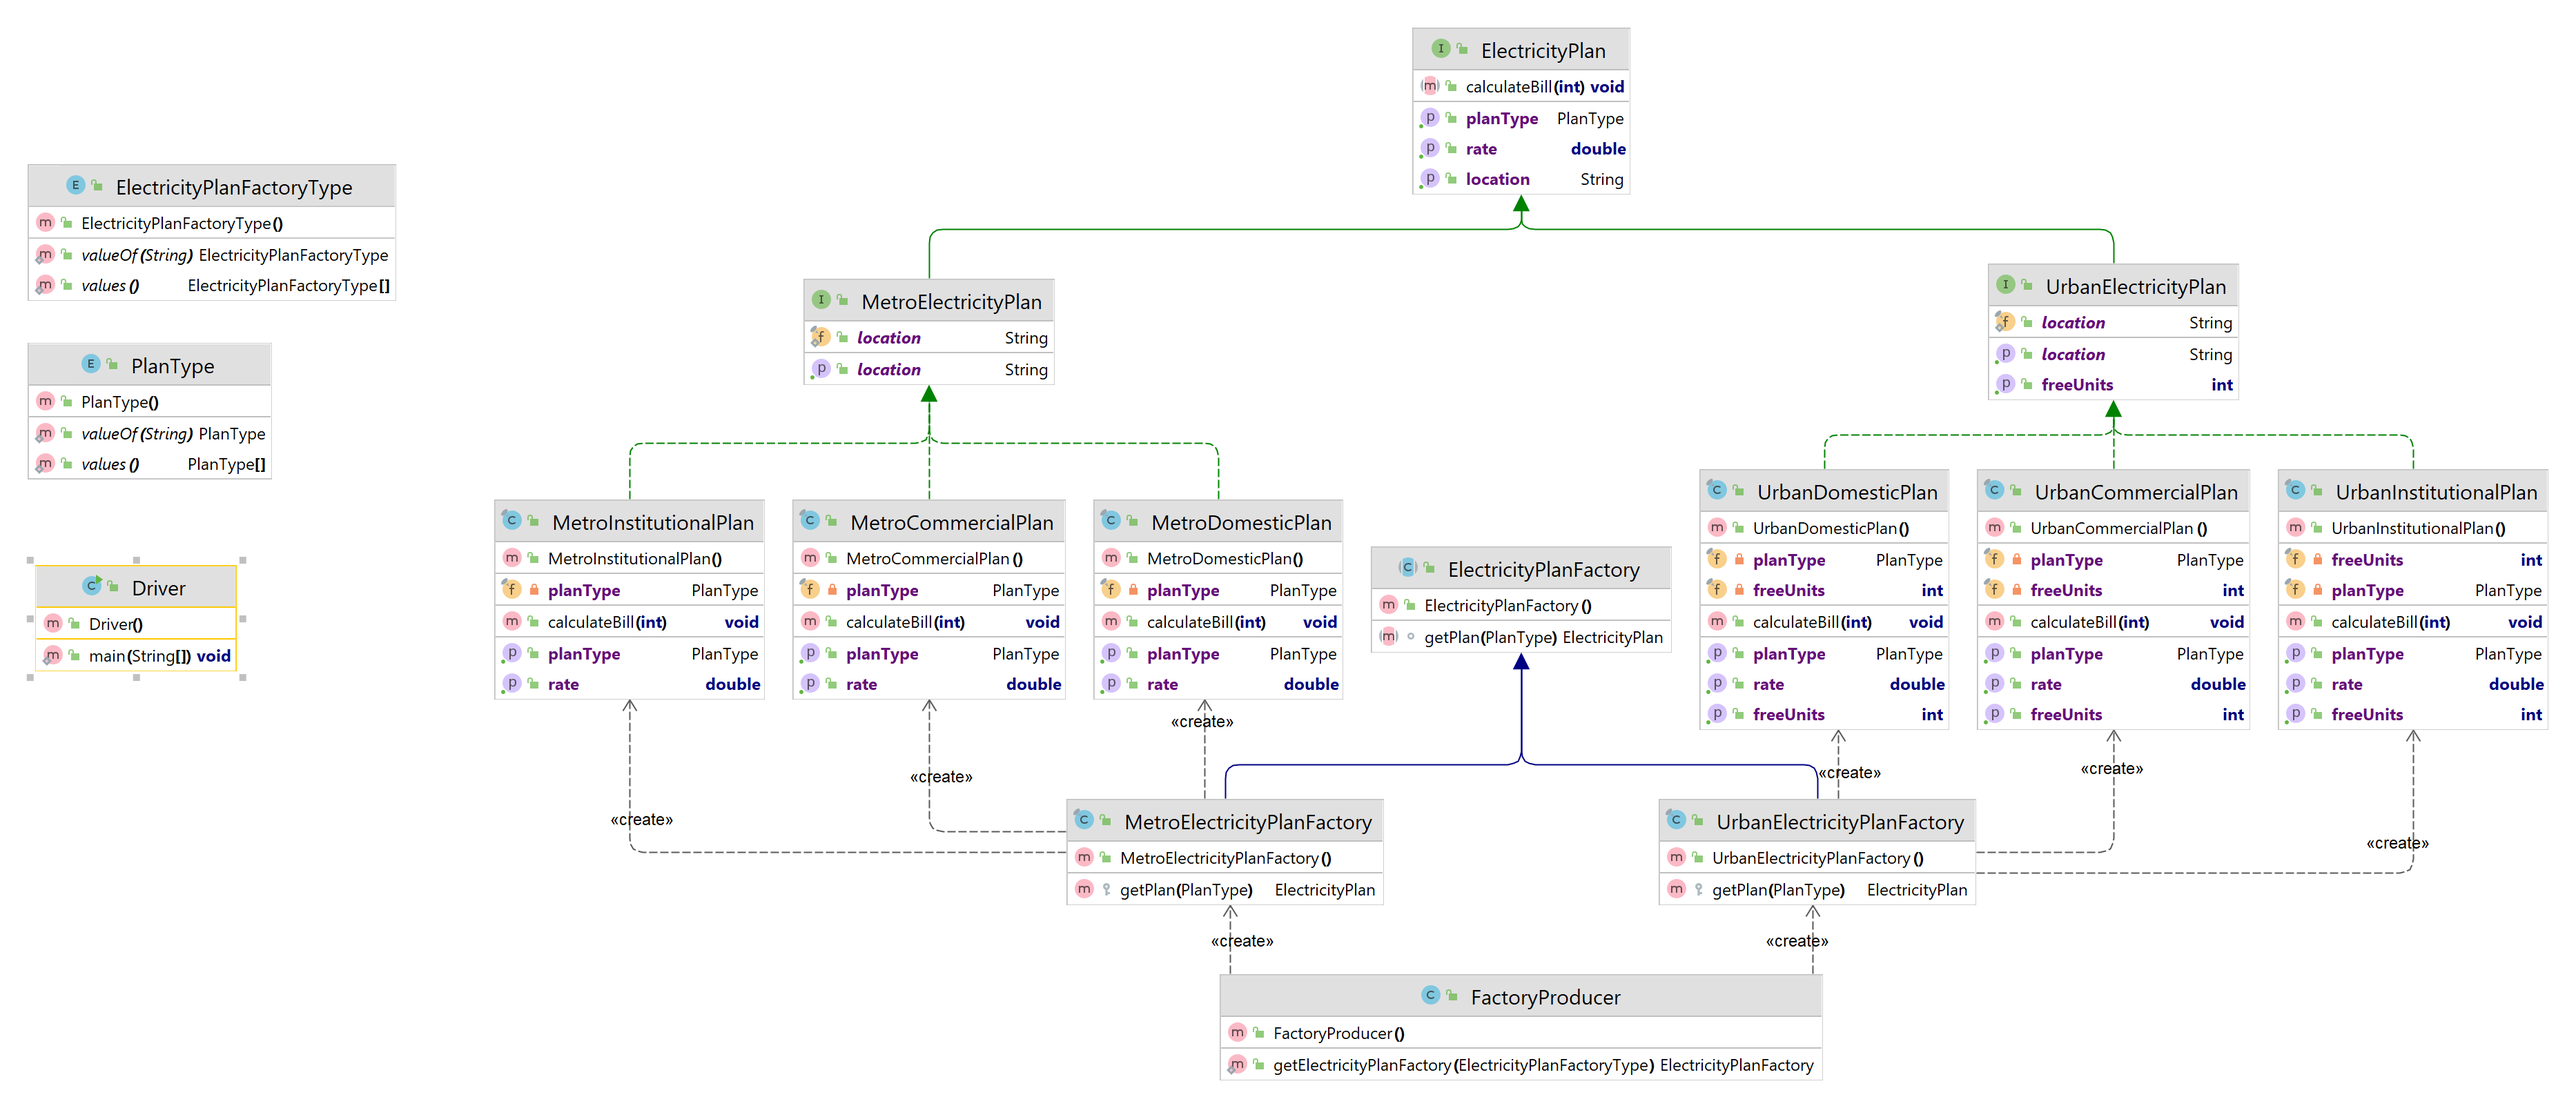
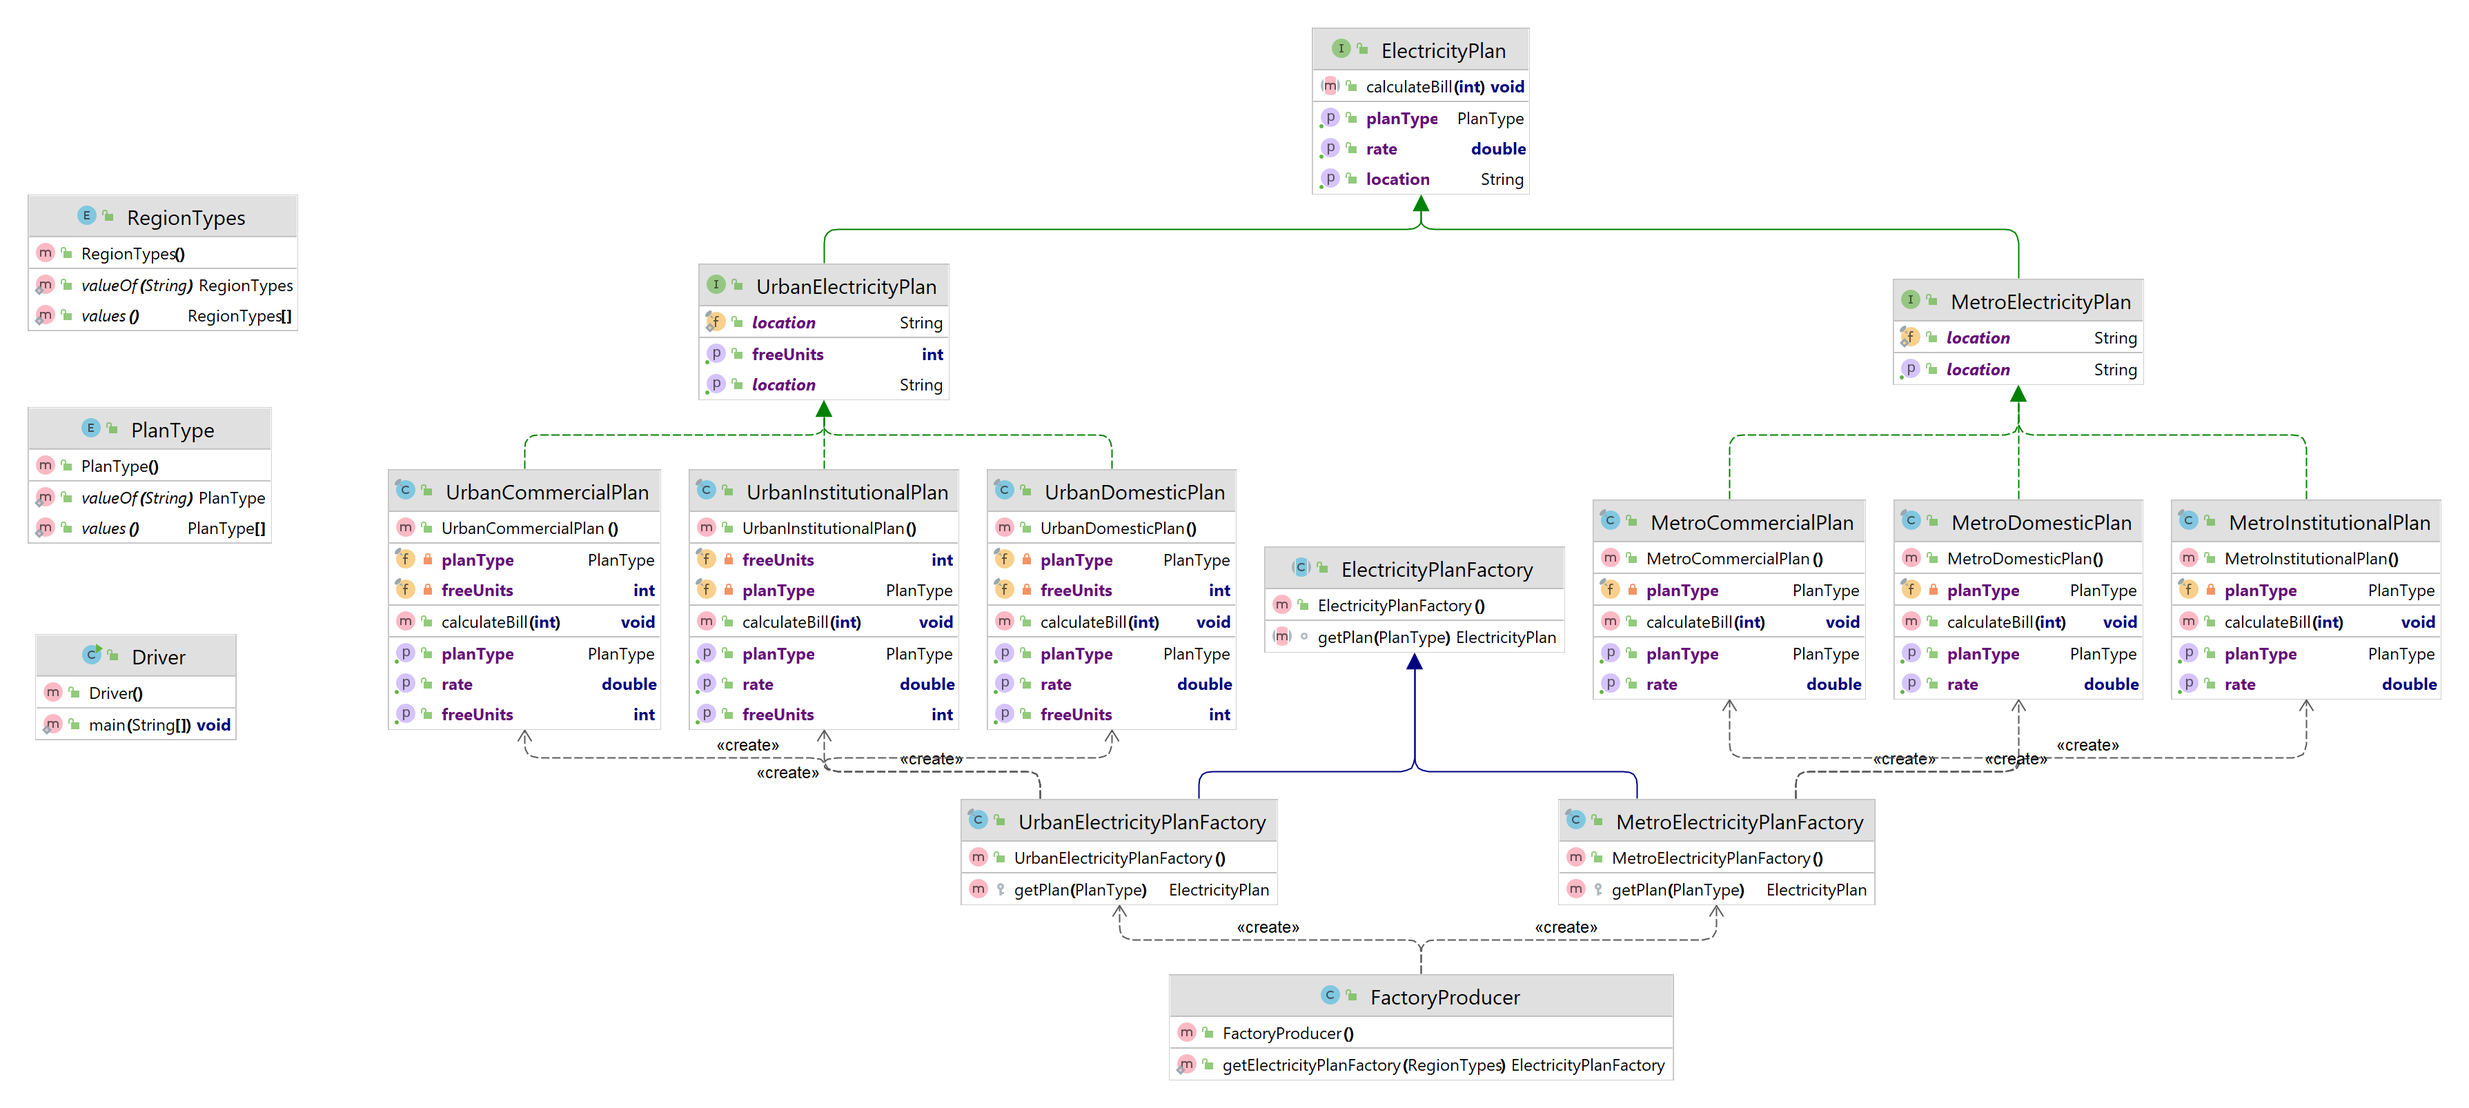
Addd abstract factory doc

diff --git a/src/main/java/com/designpatterns/abstractfactory/UrbanElectricityPlanFactory.java b/src/main/java/com/designpatterns/abstractfactory/UrbanElectricityPlanFactory.java
@@ -1,6 +1,6 @@
 package com.designpatterns.abstractfactory;
 
-import com.designpatterns.abstractfactory.enums.ElectricityPlanFactoryType;
+import com.designpatterns.abstractfactory.enums.RegionTypes;
 import com.designpatterns.abstractfactory.enums.PlanType;
 import com.designpatterns.abstractfactory.plans.UrbanCommercialPlan;
 import com.designpatterns.abstractfactory.plans.UrbanDomesticPlan;
@@ -8,7 +8,7 @@ import com.designpatterns.abstractfactory.plans.UrbanInstitutionalPlan;
 
 public final class UrbanElectricityPlanFactory extends ElectricityPlanFactory{
 
-    public static final ElectricityPlanFactoryType planFactoryType = ElectricityPlanFactoryType.URBAN;
+    public static final RegionTypes planFactoryType = RegionTypes.URBAN;
     @Override
     protected ElectricityPlan getPlan(PlanType planType){
         switch (planType){

diff --git a/src/main/java/com/designpatterns/abstractfactory/MetroElectricityPlanFactory.java b/src/main/java/com/designpatterns/abstractfactory/MetroElectricityPlanFactory.java
@@ -1,6 +1,6 @@
 package com.designpatterns.abstractfactory;
 
-import com.designpatterns.abstractfactory.enums.ElectricityPlanFactoryType;
+import com.designpatterns.abstractfactory.enums.RegionTypes;
 import com.designpatterns.abstractfactory.enums.PlanType;
 import com.designpatterns.abstractfactory.plans.MetroCommercialPlan;
 import com.designpatterns.abstractfactory.plans.MetroDomesticPlan;
@@ -8,7 +8,7 @@ import com.designpatterns.abstractfactory.plans.MetroInstitutionalPlan;
 
 public final class MetroElectricityPlanFactory extends ElectricityPlanFactory {
 
-    public static final ElectricityPlanFactoryType planFactoryType = ElectricityPlanFactoryType.METRO;
+    public static final RegionTypes planFactoryType = RegionTypes.METRO;
 
 
     @Override

diff --git a/src/main/java/com/designpatterns/abstractfactory/Driver.java b/src/main/java/com/designpatterns/abstractfactory/Driver.java
@@ -1,12 +1,12 @@
 package com.designpatterns.abstractfactory;
 
-import com.designpatterns.abstractfactory.enums.ElectricityPlanFactoryType;
+import com.designpatterns.abstractfactory.enums.RegionTypes;
 import com.designpatterns.abstractfactory.enums.PlanType;
 
 public class Driver {
 
     public static void main(String[] args) {
-        ElectricityPlan plan = FactoryProducer.getElectricityPlanFactory(ElectricityPlanFactoryType.URBAN)
+        ElectricityPlan plan = FactoryProducer.getElectricityPlanFactory(RegionTypes.URBAN)
                 .getPlan(PlanType.DOMESTIC);
         plan.calculateBill(200);
     }

diff --git a/src/main/java/com/designpatterns/abstractfactory/FactoryProducer.java b/src/main/java/com/designpatterns/abstractfactory/FactoryProducer.java
@@ -1,11 +1,11 @@
 package com.designpatterns.abstractfactory;
 
-import com.designpatterns.abstractfactory.enums.ElectricityPlanFactoryType;
+import com.designpatterns.abstractfactory.enums.RegionTypes;
 
 public class FactoryProducer {
 
 
-    public static ElectricityPlanFactory getElectricityPlanFactory(ElectricityPlanFactoryType planFactoryType){
+    public static ElectricityPlanFactory getElectricityPlanFactory(RegionTypes planFactoryType){
 
         switch (planFactoryType){
             case METRO:

diff --git a/src/main/java/com/designpatterns/abstractfactory/enums/RegionTypes.java b/src/main/java/com/designpatterns/abstractfactory/enums/RegionTypes.java
@@ -1,6 +1,6 @@
 package com.designpatterns.abstractfactory.enums;
 
-public enum ElectricityPlanFactoryType {
+public enum RegionTypes {
 
     URBAN,
     METRO;

diff --git a/docs/abstract-factory/README.md b/docs/abstract-factory/README.md
@@ -1,32 +1,43 @@
 ## Abstract Factory Method
 1. Type : **Creational Design pattern**
-2. Definition : A factory method is a creation design pattern that provides an interface that creates and provide complex objects. Instead of creating these complex objects with `new` keyword, the interface (Factory class) will be used.
+2. Definition : Abstract Factory is a creational design pattern that lets you produce families of related objects without specifying their concrete classes.
 
 ## Brief
-* The Abstracts Factory Method design pattern is a creational design pattern that provides an interface for creating objects, but allows subclasses to decide which class to instantiate. It is also known as the **Virtual Constructor pattern**.
-* The main idea behind the Factory Method pattern is to encapsulate object creation in a separate method or factory class, rather than directly instantiating objects using the `new` keyword. This method or class, known as the factory method, defines an interface or abstract class for creating objects, but the concrete implementation is deferred to subclasses.
+* The main idea behind the abstract factory Method pattern is to encapsulate object creation in a separate method or factory class, rather than directly instantiating objects using the `new` keyword. This method or class, known as the factory method, defines an interface or abstract class for creating objects, but the concrete implementation is deferred to subclasses.
 
 ## Our use case
 
 ![Electricity plan](https://github.com/sanjaymantati/design-patterns/blob/master/docs/abstract-factory/ElectricityPlan.png?raw=true)
 
-1. Our use case is to produce electricity bills based on plans.
-2. Now There are three electricity plans : Commercial, Domestic, and Institutional. Each have different rate/unit values.
-3. These plans will take number of units as an input and will produce bills.
-4. You can see that the Electricity plan `interface` has three implementations DomesticPlan, InstitutionalPlan, and CommercialPlan.
-5. Now we can create objects of these concrete plans directly with `new` keyword. But the complexity of the creation of these plans will be increased with time which make codes hard to maintain it. So we need to detach the creational code of these plans.
-6. The `ElectricityPlanFactor` Class does the creational job for all plans. We just need to provide plan type (**PlanType** enum). Now We can create any kind of plan through ElectricityPlanFactor class at anywhere without worrying about how these plans are created. Note
-7. Adding new ElectricityPlan : We can just implement the ElectricityPlan and create new Plan and add its creation logic in the `ElectricityPlanFactor` Class.
-8. Changes in creation logic in existing plans : If the creational logic of any plan changes in the future, we just need to update creation code of the plan in ElectricityPlanFactor class.
+1. Our use case is to produce electricity bills based on plans and their region.
+2. There are two area/regions : Urban and Metro.
+3. In Urban area, there is **free limit on units**. So the electricity plan will work differently in comparison with metro electricity plan.
+4. You can see that the Electricity plan `interface` has six implementations (3 Metro and 3 Urban) :  MetroCommercialPlan, MetroDomesticPlan, MetroInstitutionalPlan, UrbanCommercialPlan, UrbanDomesticPlan, and UrbanInstitutionalPlan.
+5. These plans will take number of units as an input and will produce bills.
+6. Now we can create objects of these concrete plans directly with `new` keyword. But the complexity of the creation of these plans will be increased with time which make codes hard to maintain it. So we need to detach the creational code of these plans.
+7. The concrete implementations(`MetroElectricityPlanFactory` and `UrbanElectricityPlanFactory` classes) of `ElectricityPlanFactory` abstract class does the creational job. We just need to provide plan type (**PlanType** enum) and region type(**RegionTypes** enum). Now We can create any kind of plan through ElectricityPlanFactory abstract class at anywhere without worrying about how these plans are created.
+8. Adding new ElectricityPlan in specific region : We can just implement the ElectricityPlan and create new Plan and add its creation logic in the respective implementation of `ElectricityPlanFactory` abstract Class based on region.
+9. Adding new Region and their plans :
+    * We can just implement the ElectricityPlan for new plans, 
+    * create new concrete implementation `ElectricityPlanFactory` abstract Class, and add creation logics of plan in that newly created concrete implementation. 
+    * Add the new concrete implementation class configuration in `ElectricityPlanFactory` abstract Class.
+10. Changes in creation logic in existing plans : If the creational logic of any plan changes in the future, we just need to update creation code of in their respective region specific concrete implementation of `ElectricityPlanFactory` abstract class.
 
 
 ## Pros
-* Encapsulation of object creation: The creation logic is encapsulated within the factory method or factory class, making it easy to modify or extend the creation process without affecting client code.
-* Subclass flexibility: Subclasses can override the factory method to provide specialized implementation or return different types of products, allowing for variations in object creation.
-* Dependency inversion: Client code depends on the abstract creator interface or class, rather than directly depending on concrete classes (ElectricityPlan), promoting decoupling and flexibility. The Factory Method pattern is commonly used in scenarios where object creation requires complex logic, such as when creating objects based on configuration settings, dynamically loading classes, or supporting multiple  variations.
+* Abstraction and Encapsulation: The abstract design pattern promotes abstraction by defining a common interface or abstract class for a family of related objects. It encapsulates the implementation details within concrete classes, allowing the client code to interact with the objects through a unified interface.
+* Flexibility and Extensibility: The pattern allows for easy addition of new classes to the family without modifying the client code. You can introduce new concrete classes that adhere to the common interface or abstract class, providing flexibility and extensibility to the codebase.
+* Loose Coupling: The abstract design pattern decouples the client code from the implementation details of the concrete classes. The client code only depends on the common interface or abstract class, reducing dependencies and promoting loose coupling. This makes the codebase more maintainable and facilitates easier changes or updates in the future.
+* Code Reusability: By defining a common interface or abstract class, the abstract design pattern promotes code reusability. Multiple concrete classes can implement the same interface or extend the same abstract class, enabling the reuse of code logic and reducing duplication.
+* Follows Single Responsibility Principle.
+* Follows Open/Closed Principle.
+
 
 ## Cons
-* The code may become more complicated since you need to introduce a lot of new subclasses to implement the pattern. The best case scenario is when you’re introducing the pattern into an existing hierarchy of creator classes.
+* Increased Complexity: Introducing the abstract design pattern adds another layer of abstraction and indirection, which can increase the complexity of the codebase. It may require a deeper understanding of the pattern and its implementation for developers working on the code.
+* Potential Performance Overhead: The abstract design pattern may introduce some performance overhead due to the use of abstraction and the need for dynamic binding during runtime. However, in most cases, the impact on performance is negligible unless the pattern is misused or applied inappropriately.
+* Limited Control over Concrete Classes: Since the abstract design pattern focuses on creating objects through a common interface or abstract class, it limits direct control over the specific concrete classes. This can be a disadvantage if you require fine-grained control over the individual objects or need to access specific methods or properties unique to certain concrete classes.
+* Increased Indirection: The pattern introduces an extra layer of indirection between the client code and the concrete classes. This can make the code harder to follow and debug, especially for developers who are not familiar with the pattern or the specific implementation.
 
 
 ## References

diff --git a/docs/factory/README.md b/docs/factory/README.md
@@ -15,9 +15,9 @@
 3. These plans will take number of units as an input and will produce bills.
 4. You can see that the Electricity plan `interface` has three implementations DomesticPlan, InstitutionalPlan, and CommercialPlan.
 5. Now we can create objects of these concrete plans directly with `new` keyword. But the complexity of the creation of these plans will be increased with time which make codes hard to maintain it. So we need to detach the creational code of these plans.
-6. The `ElectricityPlanFactor` Class does the creational job for all plans. We just need to provide plan type (**PlanType** enum). Now We can create any kind of plan through ElectricityPlanFactor class at anywhere without worrying about how these plans are created. Note 
-7. Adding new ElectricityPlan : We can just implement the ElectricityPlan and create new Plan and add its creation logic in the `ElectricityPlanFactor` Class.
-8. Changes in creation logic in existing plans : If the creational logic of any plan changes in the future, we just need to update creation code of the plan in ElectricityPlanFactor class.
+6. The `ElectricityPlanFactory` Class does the creational job for all plans. We just need to provide plan type (**PlanType** enum). Now We can create any kind of plan through ElectricityPlanFactor class at anywhere without worrying about how these plans are created. 
+7. Adding new ElectricityPlan : We can just implement the ElectricityPlan and create new Plan and add its creation logic in the `ElectricityPlanFactory` Class.
+8. Changes in creation logic in existing plans : If the creational logic of any plan changes in the future, we just need to update creation code of the plan in ElectricityPlanFactory class.
 
 
 ## Pros
